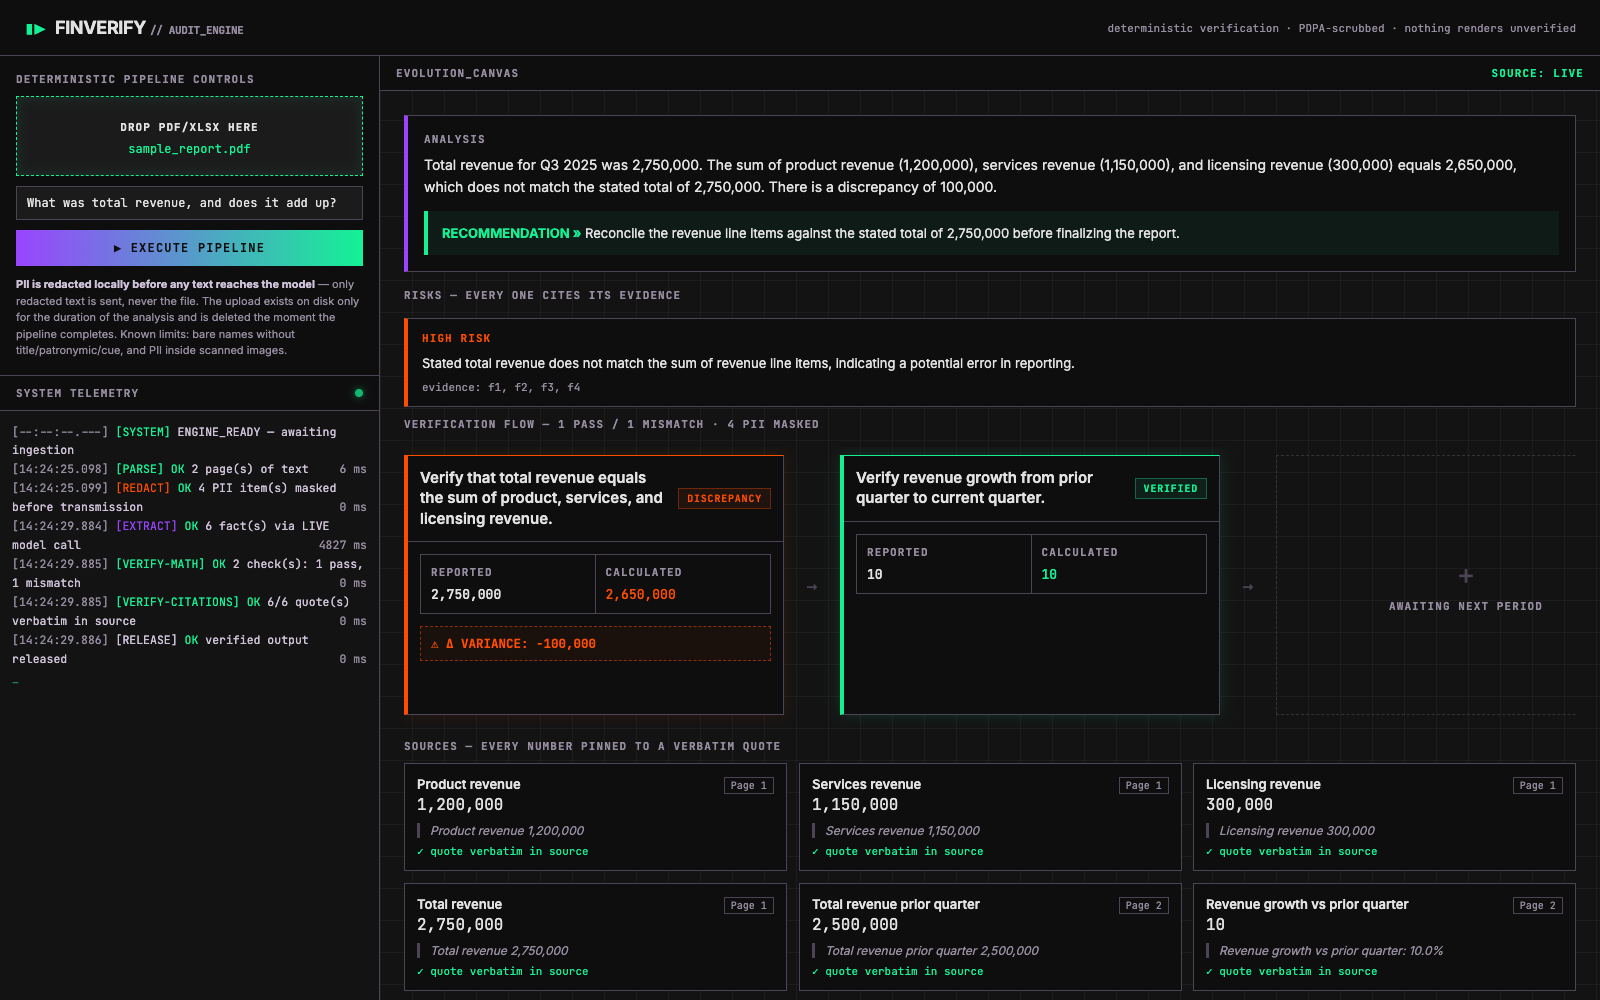
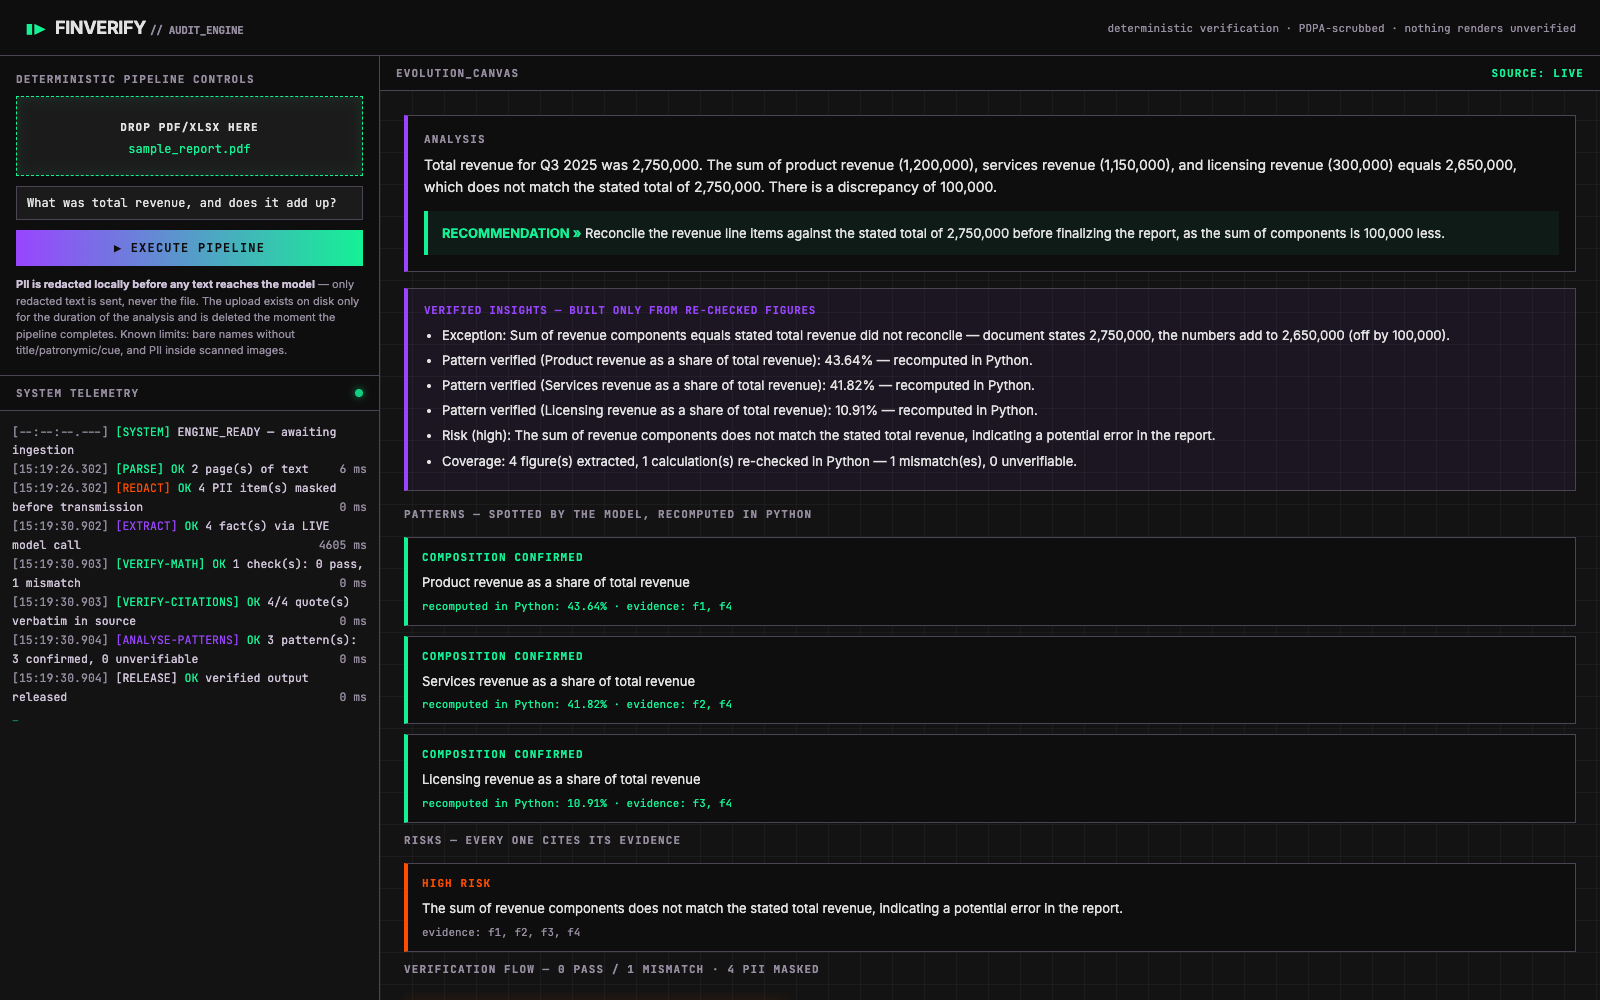
feat: renderer registry with render-gates on the canvas
cityos pattern: RENDERERS maps each artifact type to (gate, render);
gates check shape, malformed data degrades to a raw-data table with a
visible notice instead of a broken visual, renderer exceptions degrade
the same way, and an unregistered type fails loudly on the canvas.
Section bodies unchanged; verified in a real browser via the
screenshot run (canvas renders end to end, .flow cards present).
Turns the red spec green.

diff --git a/web/index.html b/web/index.html
@@ -198,16 +198,18 @@ $("exec").onclick=async()=>{
   $("exec").disabled=false;
   if(result)render(result);
 };
-function render(r){
-  if(r.error){$("canvas").innerHTML=`<div class="idle" style="border-color:var(--orange)"><div class="big" style="color:var(--orange)">PIPELINE HALTED</div><p>${esc(r.error)}</p></div>`;return;}
-  $("srcflag").textContent=r.fallback_used?"SOURCE: CACHED":"SOURCE: LIVE";
-  $("srcflag").style.color=r.fallback_used?"var(--amber)":"var(--teal)";
-  let h="";
-  if(r.fallback_used)h+=`<div class="banner">⚠ CACHED — the live model call failed; the demo fallback answered. Verification below still ran for real against these facts.</div>`;
-  h+=`<div class="answer"><span class="caps">Analysis</span><div class="body">${esc(r.answer)}</div>`;
-  if(r.recommendation)h+=`<div class="rec"><b>RECOMMENDATION »</b> ${esc(r.recommendation)}</div>`;
-  h+=`</div>`;
-  if(r.insights){
+// ── Renderer registry (cityos pattern): type -> (gate, render). A gate
+// checks SHAPE, not presence — malformed data degrades to a plain table
+// so a renderer can never lie with an empty or broken visual; an
+// unregistered type fails loudly instead of silently vanishing.
+function renderFallbackTable(type,data){
+  let rows="";
+  const items=Array.isArray(data)?data:[data];
+  items.slice(0,20).forEach(it=>{rows+=`<tr><td class="mono" style="padding:6px;border:1px solid var(--line);font-size:11px;word-break:break-all">${esc(JSON.stringify(it))}</td></tr>`;});
+  return `<div class="banner" style="border-color:var(--amber);color:var(--amber);background:rgba(245,158,11,.06)">⚠ ${esc(type)} failed its render gate — raw data shown instead of a broken visual</div><table style="width:100%;border-collapse:collapse;margin-bottom:16px">${rows}</table>`;
+}
+const RENDERERS={
+  insights:{gate:r=>r.insights==null||typeof r.insights==="string",render:r=>{let h="";if(r.insights){
     const items=r.insights.split("\n").map(s=>s.trim()).filter(Boolean);
     if(items.length){
       h+=`<div class="insights"><span class="caps">Verified insights — built only from re-checked figures</span><ul>`;
@@ -215,7 +217,8 @@ function render(r){
       h+=`</ul></div>`;
     }
   }
-  if(r.patterns&&r.patterns.length){
+  return h;}},
+  patterns:{gate:r=>r.patterns==null||Array.isArray(r.patterns),render:r=>{let h="";if(r.patterns&&r.patterns.length){
     h+=`<h2 class="caps section-gap">Patterns — spotted by the model, recomputed in Python</h2>`;
     const klabel={composition:"Composition",ratio:"Ratio",sign:"Threshold",threshold:"Threshold"};
     r.patterns.forEach(p=>{
@@ -239,7 +242,8 @@ function render(r){
       </div>`;
     });
   }
-  if(r.risks&&r.risks.length){
+  return h;}},
+  risks:{gate:r=>r.risks==null||Array.isArray(r.risks),render:r=>{let h="";if(r.risks&&r.risks.length){
     h+=`<h2 class="caps section-gap">Risks — every one cites its evidence</h2>`;
     r.risks.forEach(k=>{
       const col=k.severity==="high"?"var(--orange)":k.severity==="medium"?"var(--amber)":"var(--ink-faint)";
@@ -250,7 +254,8 @@ function render(r){
       </div>`;
     });
   }
-  h+=`<h2 class="caps section-gap">Verification flow — ${r.summary.checks_passed} pass / ${r.summary.checks_failed} mismatch · ${r.redaction_count} PII masked</h2>`;
+  return h;}},
+  checks:{gate:r=>Array.isArray(r.checks)&&r.summary&&typeof r.summary==="object",render:r=>{let h="";h+=`<h2 class="caps section-gap">Verification flow — ${r.summary.checks_passed} pass / ${r.summary.checks_failed} mismatch · ${r.redaction_count} PII masked</h2>`;
   h+=`<div class="flow">`;
   r.checks.forEach((c,i)=>{
     const cls=c.error?"warn":(c.passed?"ok":"bad");
@@ -270,7 +275,8 @@ function render(r){
     if(i<r.checks.length-1)h+=`<div class="arrow" style="animation-delay:${i*140+90}ms">→</div>`;
   });
   h+=`<div class="arrow" style="animation-delay:${r.checks.length*140}ms">→</div><div class="ghost" style="animation-delay:${r.checks.length*140+90}ms"><span style="font-size:28px;color:var(--line)">+</span><span class="caps" style="color:var(--ink-faint)">AWAITING NEXT PERIOD</span></div></div>`;
-  h+=`<div class="sources"><h2 class="caps">Sources — every number pinned to a verbatim quote</h2><div class="src-grid">`;
+  return h;}},
+  sources:{gate:r=>Array.isArray(r.facts),render:r=>{let h="";h+=`<div class="sources"><h2 class="caps">Sources — every number pinned to a verbatim quote</h2><div class="src-grid">`;
   r.facts.forEach((f,j)=>{
     h+=`<div class="src" style="animation-delay:${j*70}ms"><div class="top"><span class="claim">${esc(f.claim)}</span><span class="page">${esc(f.page)}</span></div>
       <div class="val">${fmt(f.value)}</div>
@@ -279,6 +285,29 @@ function render(r){
     </div>`;
   });
   h+=`</div></div>`;
+  return h;}},
+};
+const ARTIFACT_ORDER=["insights","patterns","risks","checks","sources"];
+function renderArtifact(type,r){
+  const reg=RENDERERS[type];
+  if(!reg)return `<div class="banner" style="border-color:var(--orange);color:var(--orange)">Unregistered artifact type: ${esc(type)}</div>`;
+  try{
+    if(!reg.gate(r))return renderFallbackTable(type,r[type==="sources"?"facts":type]);
+    return reg.render(r);
+  }catch(e){
+    return renderFallbackTable(type,r[type==="sources"?"facts":type]);
+  }
+}
+function render(r){
+  if(r.error){$("canvas").innerHTML=`<div class="idle" style="border-color:var(--orange)"><div class="big" style="color:var(--orange)">PIPELINE HALTED</div><p>${esc(r.error)}</p></div>`;return;}
+  $("srcflag").textContent=r.fallback_used?"SOURCE: CACHED":"SOURCE: LIVE";
+  $("srcflag").style.color=r.fallback_used?"var(--amber)":"var(--teal)";
+  let h="";
+  if(r.fallback_used)h+=`<div class="banner">⚠ CACHED — the live model call failed; the demo fallback answered. Verification below still ran for real against these facts.</div>`;
+  h+=`<div class="answer"><span class="caps">Analysis</span><div class="body">${esc(r.answer)}</div>`;
+  if(r.recommendation)h+=`<div class="rec"><b>RECOMMENDATION »</b> ${esc(r.recommendation)}</div>`;
+  h+=`</div>`;
+  ARTIFACT_ORDER.forEach(t=>{h+=renderArtifact(t,r);});
   $("canvas").innerHTML=h;
   if(!matchMedia("(prefers-reduced-motion: reduce)").matches){
     document.querySelectorAll("#canvas .val[data-n]").forEach(el=>{
